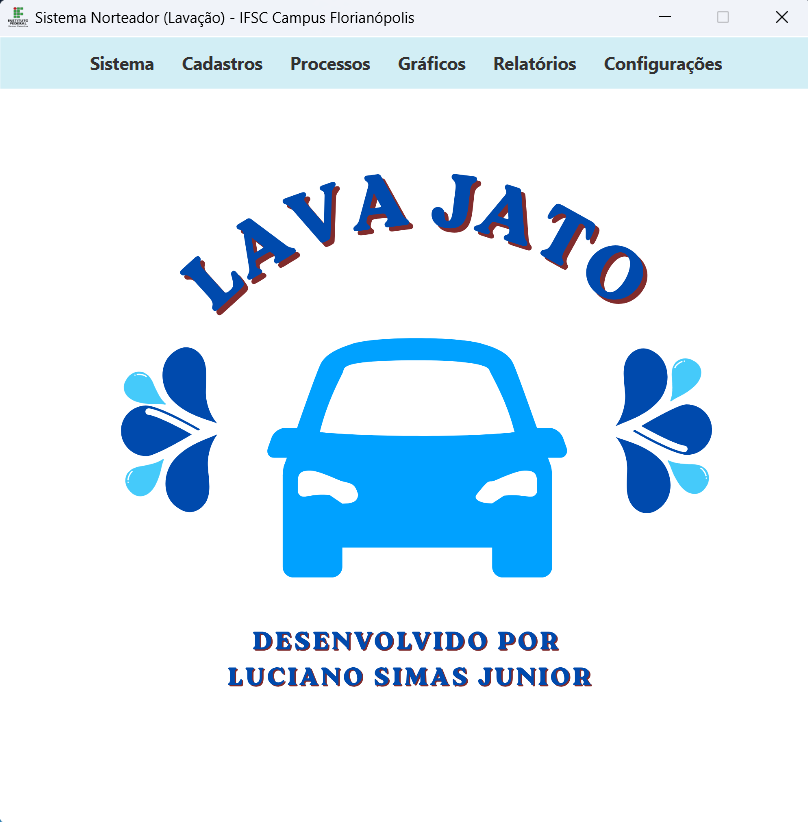
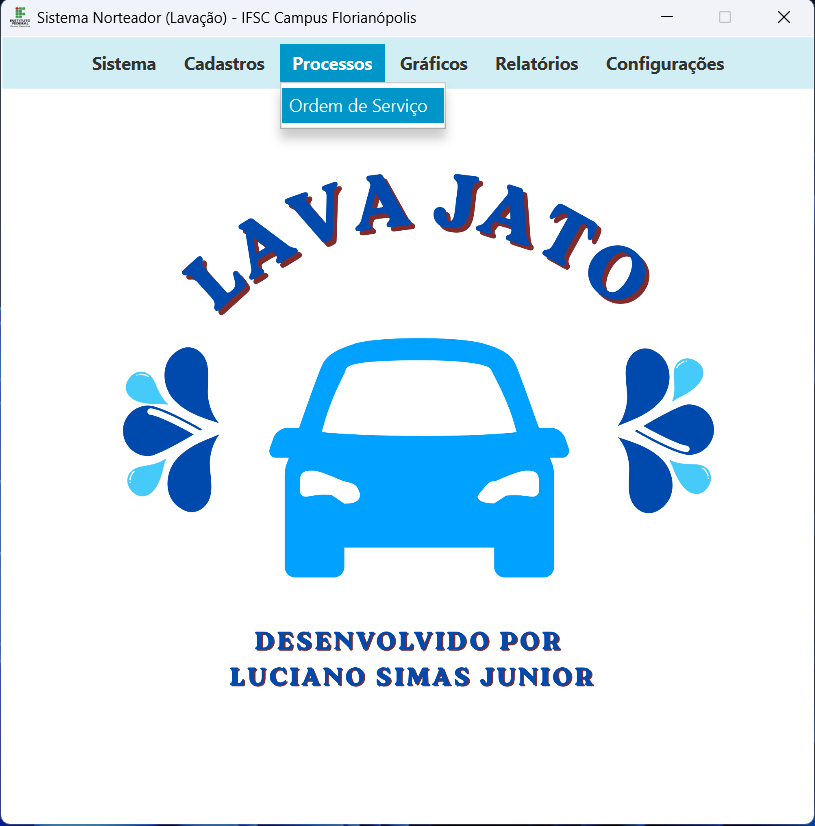
Ajuste na imagem do readme.

diff --git a/src/main/java/br/edu/ifsc/fln/sistemalavacaojavafx/controller/FXMLAnchorPaneProcessoOrdemServicoDialogController.java b/src/main/java/br/edu/ifsc/fln/sistemalavacaojavafx/controller/FXMLAnchorPaneProcessoOrdemServicoDialogController.java
@@ -499,7 +499,7 @@ public class FXMLAnchorPaneProcessoOrdemServicoDialogController implements Initi
             errorMessage += "O status deve ser selecionado!\n";
         }
         if (ordemServico.getItensOS().isEmpty()) {
-            errorMessage += "A Ordem de Serviço deve ter ao menos um serviço adcionado!\n";
+            errorMessage += "A Ordem de Serviço deve ter ao menos um serviço adicionado!\n";
         }
         if(tfNumeroOs.getText().isEmpty()){
             errorMessage += "A ordem de serviço deverá ter um número de OS informado!\n";

diff --git a/src/main/java/br/edu/ifsc/fln/sistemalavacaojavafx/model/dao/OrdemServicoDAO.java b/src/main/java/br/edu/ifsc/fln/sistemalavacaojavafx/model/dao/OrdemServicoDAO.java
@@ -225,7 +225,7 @@ public class OrdemServicoDAO {
             return ordensServicos;
         }catch(SQLException ex){
             Logger.getLogger(OrdemServicoDAO.class.getName()).log(Level.SEVERE, null, ex);
-            throw new DAOException("Não foi possível alteara a ordem de serviço no banco de dados!\nMotivo: ",ex);
+            throw new DAOException("Não foi possível listar as ordens de serviço no banco de dados!\nMotivo: ",ex);
         }finally{
             database.desconectar(connection);
         }